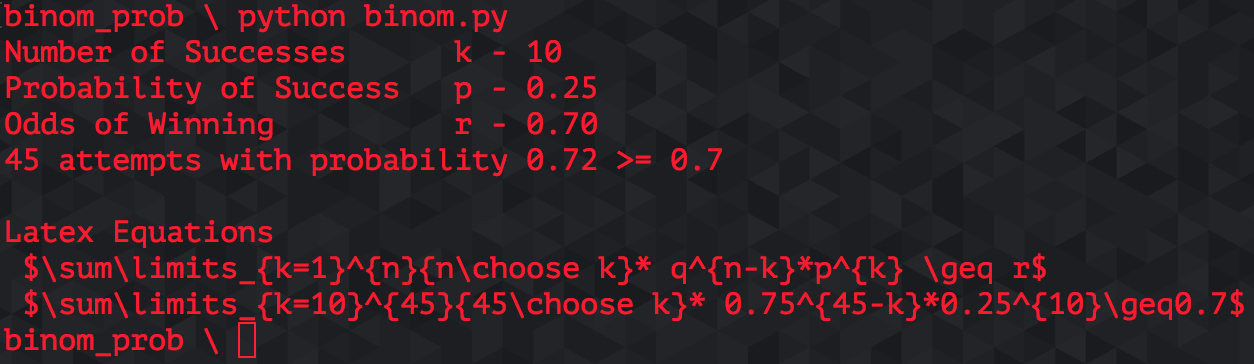
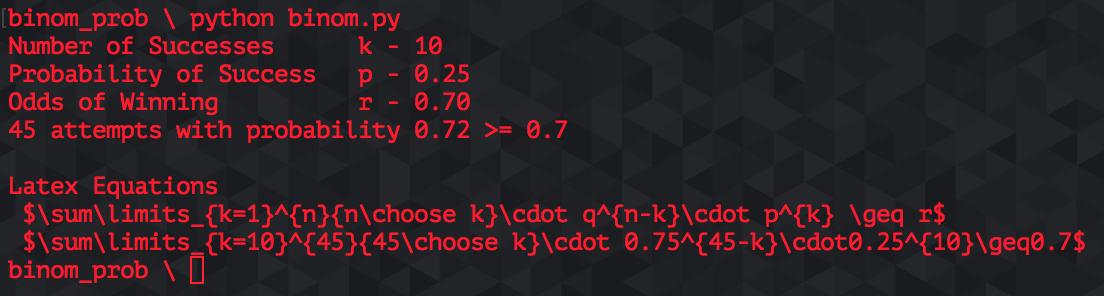
Changed * to \cdot

Changed region(s): [[0.0, 0.6081, 1.0, 1.0], [0.0, 0.0, 0.5851, 0.4865]]

diff --git a/binom.py b/binom.py
@@ -39,6 +39,6 @@ def main():
     q = 1-p
     print(str(n) + " attempts with probability " + str(round(result,4)) + " >= " + str(r))
     print("\nLatex Equations")
-    print(" $\sum\limits_{k=1}^{n}{n\choose k}\cdot q^{n-k}*p^{k} \geq r$")
+    print(" $\sum\limits_{k=1}^{n}{n\choose k}\cdot q^{n-k}\cdot p^{k} \geq r$")
     print(" $\sum\limits_{k="+str(k) +"}^{"+str(n)+"}{"+str(n)+"\choose k}\cdot "+str(q)+"^{"+str(n)+"-k}\cdot" + str(p)+"^{"+str(k) +"}\geq" + str(r)+"$")
 main()

diff --git a/readme.md b/readme.md
@@ -11,13 +11,13 @@ This python script solves Binomial Probability problems.  It iterates through al
 The script also outputs the final equation in Latex for simple file creation
 * Template equation
 ```Latex
-$\sum\limits_{k=1}^{n}{n\choose k}* p^{n-k}*q^{k} \geq r$
+$\sum\limits_{k=1}^{n}{n\choose k}\cdot p^{n-k}\cdot q^{k} \geq r$
 ```
 ![Example 1](ex1.svg)
 
 * Example from Class
 ````Latex
-$\sum\limits_{k=10}^{45}{45\choose k}* 0.25^{45-k}*0.75^{k} \geq 0.7$
+$\sum\limits_{k=10}^{45}{45\choose k}\cdot 0.25^{45-k}\cdot 0.75^{k} \geq 0.7$
 ````
 
 ![Example 2](ex2.svg)
